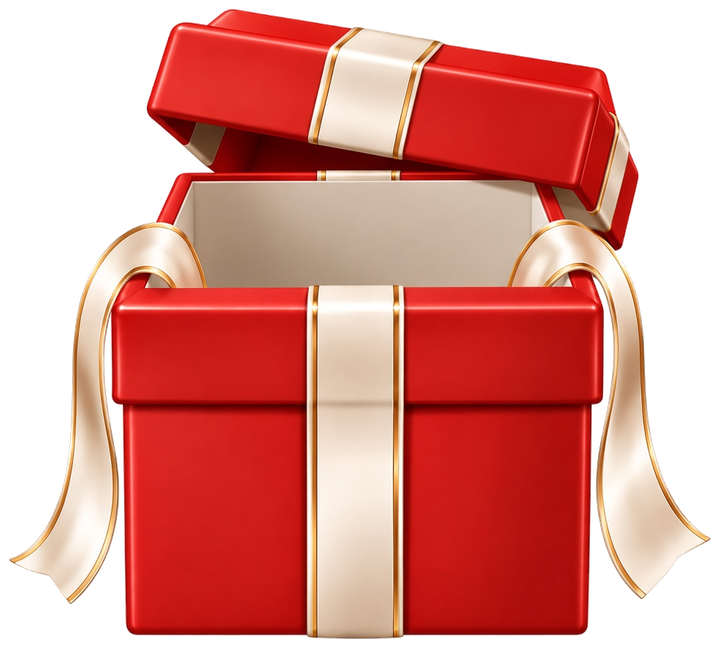
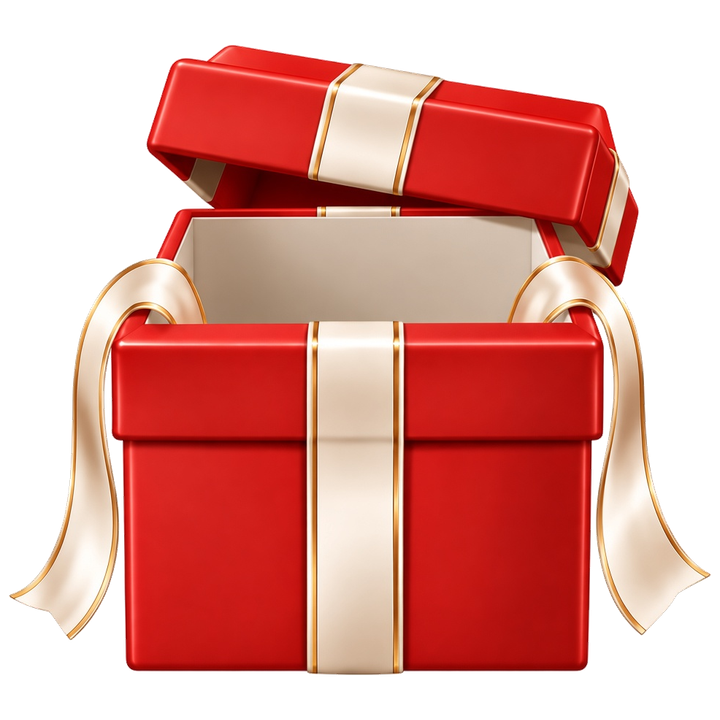
Keep gift frames the same size and go to the drum after the third click.

diff --git a/script.js b/script.js
@@ -974,7 +974,7 @@ function setJokeGiftFrame(frame) {
     return;
   }
 
-  const src = `assets/gift-${frame}.png`;
+  const src = `assets/gift-${frame}.png?v=97`;
   if (photo.getAttribute("src") !== src) {
     photo.src = src;
   }
@@ -998,7 +998,7 @@ function resetJokeScene() {
     fly.getAnimations().forEach((animation) => animation.cancel());
     fly.removeAttribute("style");
     fly.hidden = true;
-    fly.classList.remove("is-unwrapping", "is-shaking");
+    fly.classList.remove("is-unwrapping", "is-shaking", "is-leaving");
     setJokeGiftFrame(4);
   }
 
@@ -1144,7 +1144,7 @@ function popNestedGift(layer) {
     fly.hidden = false;
     fly.style.visibility = "";
     fly.style.opacity = "1";
-    fly.classList.remove("is-unwrapping");
+    fly.classList.remove("is-unwrapping", "is-leaving");
     setJokeGiftFrame(4);
   }
 
@@ -1158,25 +1158,26 @@ function popNestedGift(layer) {
 }
 
 function finishGiftLayer() {
+  const fly = document.getElementById("jokeGiftFly");
   const gift = document.getElementById("jokeGift");
   const layer = Number(gift?.dataset.layer || 0);
 
-  if (layer + 1 < GIFT_LAYER_COUNT) {
-    afterJoke(420, () => {
-      gift?.classList.add("is-fading");
-      afterJoke(560, () => {
-        playGiftSuspense(layer + 1);
-      });
-    });
-    return;
-  }
+  fly?.classList.remove("is-shaking");
+  fly?.classList.add("is-leaving");
+  gift?.classList.add("is-fading");
 
-  jokePage.classList.add("is-unwrapped");
-  afterJoke(420, () => {
-    gift?.classList.add("is-fading");
-    afterJoke(560, () => {
-      playGiftSuspense(GIFT_LAYER_COUNT);
-    });
+  afterJoke(520, () => {
+    if (fly) {
+      fly.hidden = true;
+    }
+
+    if (layer + 1 < GIFT_LAYER_COUNT) {
+      playGiftSuspense(layer + 1);
+      return;
+    }
+
+    jokePage.classList.add("is-unwrapped");
+    playGiftSuspense(GIFT_LAYER_COUNT);
   });
 }
 
@@ -1200,15 +1201,15 @@ function unwrapSantaGift() {
   if (fly?.classList.contains("has-photo")) {
     const next = step + 1;
     gift.dataset.step = String(next);
-    if (next < 4) {
-      setJokeGiftFrame(JOKE_GIFT_FRAMES[next]);
+    setJokeGiftFrame(JOKE_GIFT_FRAMES[next]);
+    if (next < 3) {
       afterJoke(280, () => {
         giftUnwrapBusy = false;
       });
       return;
     }
 
-    afterJoke(360, finishGiftLayer);
+    afterJoke(420, finishGiftLayer);
     return;
   }
 

diff --git a/index.html b/index.html
@@ -13,7 +13,7 @@
   <title>kitegamemode.kr</title>
   <link rel="canonical" href="https://kitegamemode.kr/">
   <link rel="stylesheet" href="https://cdn.jsdelivr.net/gh/orioncactus/pretendard@v1.3.9/dist/web/static/pretendard.min.css">
-  <link rel="stylesheet" href="style.css?v=96">
+  <link rel="stylesheet" href="style.css?v=97">
 </head>
 <body>
   <main class="app">
@@ -62,14 +62,14 @@
         <div class="joke-drum__kit">
           <span class="joke-drum__stick is-left"></span>
           <span class="joke-drum__stick is-right"></span>
-          <img class="joke-drum__img" src="assets/snare.png?v=96" alt="">
+          <img class="joke-drum__img" src="assets/snare.png?v=97" alt="">
         </div>
         <p class="joke-suspense" id="jokeSuspense"></p>
       </div>
       <div class="joke-party" id="jokeParty" hidden aria-hidden="true"></div>
       <div class="joke-gift-fly" id="jokeGiftFly" hidden>
         <div class="joke-gift-wiggle">
-        <img class="joke-gift-photo" id="jokeGiftPhoto" src="assets/gift-4.png" alt="">
+        <img class="joke-gift-photo" id="jokeGiftPhoto" src="assets/gift-4.png?v=97" alt="">
         <div class="gift" id="jokeGift" data-step="0" data-layer="0">
           <div class="gift-inner"></div>
           <div class="gift-paper">
@@ -112,7 +112,7 @@
   </main>
   <script src="https://unpkg.com/peerjs@1.5.4/dist/peerjs.min.js"></script>
   <script src="https://unpkg.com/mqtt@5.10.4/dist/mqtt.min.js"></script>
-  <script src="accounts.js?v=96"></script>
-  <script src="script.js?v=96"></script>
+  <script src="accounts.js?v=97"></script>
+  <script src="script.js?v=97"></script>
 </body>
 </html>

diff --git a/style.css b/style.css
@@ -1196,9 +1196,8 @@ body.is-admin .app {
 .joke-gift-photo {
   position: relative;
   z-index: 4;
-  width: 156px;
-  height: auto;
-  max-height: 176px;
+  width: 168px;
+  height: 168px;
   object-fit: contain;
   pointer-events: none;
   filter: drop-shadow(0 10px 14px rgba(70, 52, 28, 0.16));
@@ -1210,6 +1209,12 @@ body.is-admin .app {
 
 .joke-gift-fly.has-photo .gift {
   display: none;
+}
+
+.joke-gift-fly.is-leaving {
+  opacity: 0 !important;
+  filter: blur(10px);
+  pointer-events: none;
 }
 
 .joke-party {
@@ -1283,7 +1288,8 @@ body.is-admin .app {
   display: grid;
   place-items: center;
   width: 168px;
-  height: 188px;
+  height: 168px;
+  transition: opacity 0.45s ease, filter 0.45s ease;
   margin: 0;
   pointer-events: none;
 }
